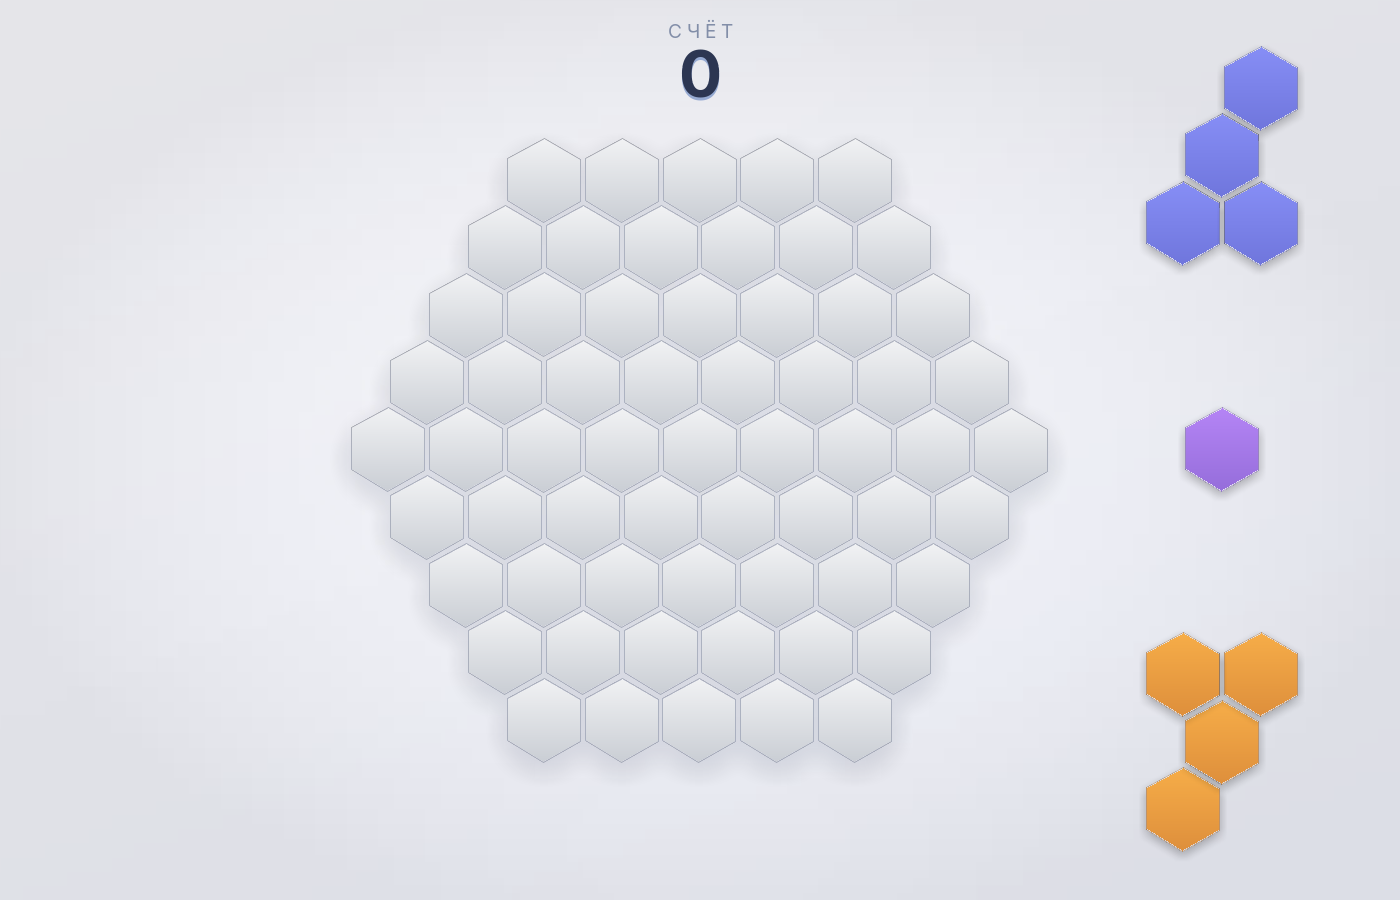
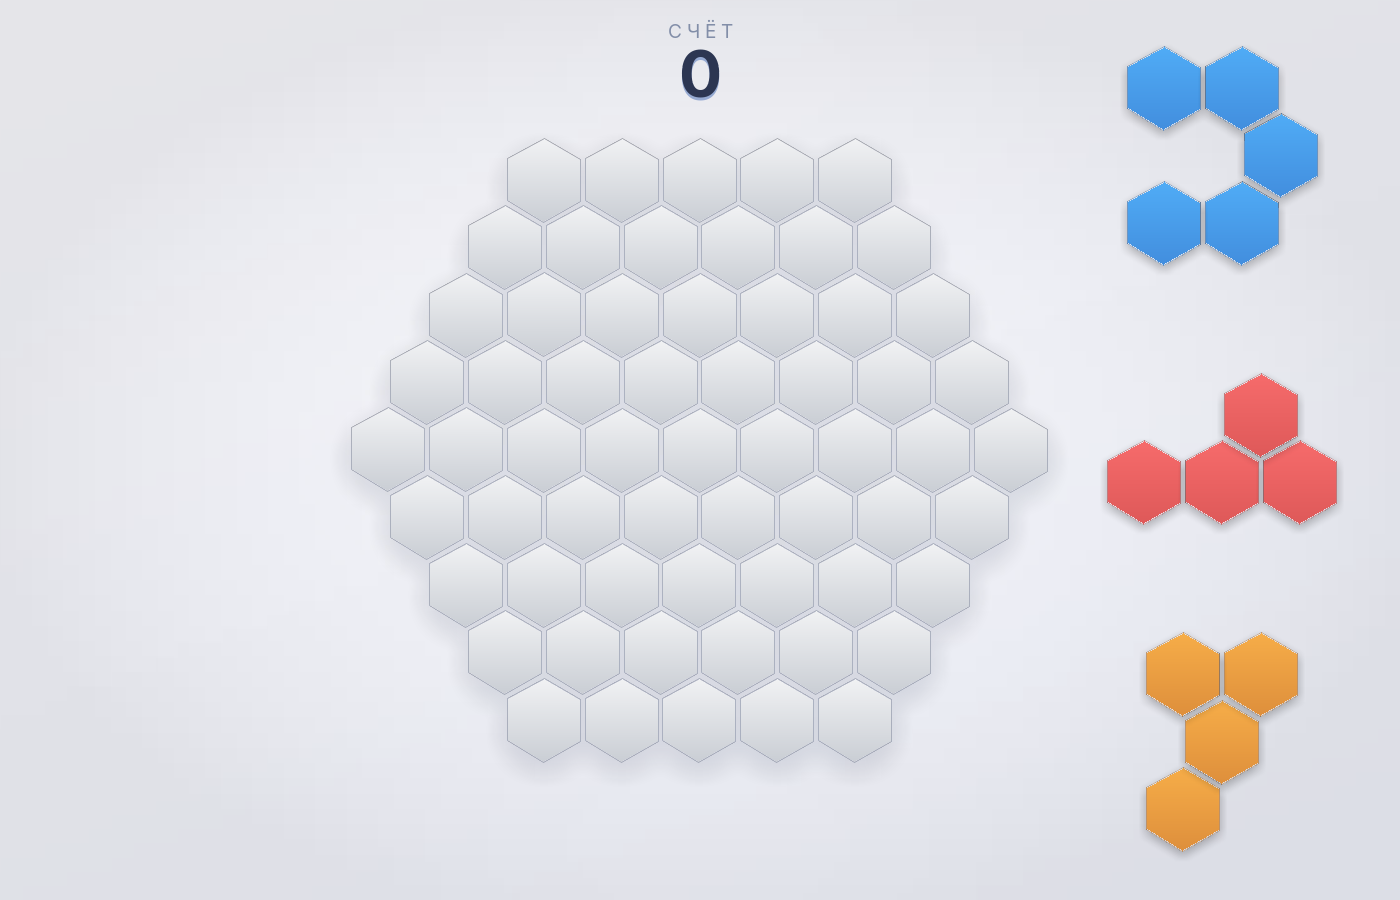
Кнопки «Новая игра» и «Выход» на экране проигрыша
Раньше новую игру можно было начать только любой клавишей клавиатуры, а
выйти — лишь закрыв окно. Теперь на карточке финального экрана две кнопки:

- «Новая игра» — основная, залитая акцентным цветом;
- «Выход» — вторичная, с рамкой.

Кнопки подсвечиваются при наведении и реагируют на левую кнопку мыши.
Клавиатурный вариант убран: клавиши в финальном режиме больше ничего
не делают (кроме T/F1 — переключение темы).

Карточка подросла по высоте (300 -> 380 px), чтобы кнопки и текст не
теснились. Цвета кнопок добавлены в обе темы, поэтому вид сохраняется
при переключении.

Проверки: клики по кнопкам и мимо них обрабатываются правильно, наведение
подсвечивает нужную кнопку; после «Новая игра» счёт обнуляется, финальный
режим снимается; 137 кадров анимаций (включая наведение кнопок) сверены
с полной перерисовкой — следов нет; 146 фигур в 12 партиях с фиксированным
seed. Скриншот финального экрана и раздел «Управление» в README обновлены.

Changed region(s): [[0.7986, 0.0311, 0.9521, 0.3111], [0.7679, 0.4044, 0.9829, 0.5911]]

diff --git a/classes.py b/classes.py
@@ -1050,12 +1050,14 @@ class Tab(Layer):
         self.score = 0
         self.target_score = 0
         self.final = False
+        self.hovered = None
         self._rendered = {}
 
         self.label = fonts.regular(19)
         self.big = fonts.bold(64)
         self.info = fonts.medium(22)
         self.hint = fonts.regular(20)
+        self.button_font = fonts.semibold(21)
 
         self.invalidate(self.bounds)
 
@@ -1075,8 +1077,36 @@ class Tab(Layer):
     def card_rect(self):
         """Карточка финального экрана. Она лежит по центру, поэтому текст
         не может оказаться поверх гексов игрового поля."""
-        width, height = 560, 300
+        width, height = 560, 380
         return pg.Rect((W - width) // 2, (H - height) // 2, width, height)
+
+    @property
+    def button_rects(self):
+        """Кнопки финального экрана: (действие, прямоугольник)."""
+        card = self.card_rect
+        width, height, gap = 200, 52, 24
+        left = card.centerx - width - gap // 2
+        top = card.bottom - height - 58
+        return [
+            ('new_game', pg.Rect(left, top, width, height)),
+            ('quit', pg.Rect(left + width + gap, top, width, height)),
+        ]
+
+    def button_at(self, pos):
+        """Возвращает действие кнопки под курсором или None."""
+        if not self.final:
+            return None
+        for action, rect in self.button_rects:
+            if rect.collidepoint(pos):
+                return action
+        return None
+
+    def set_hover(self, pos):
+        """Подсвечивает кнопку под курсором."""
+        hovered = self.button_at(pos)
+        if hovered != self.hovered:
+            self.hovered = hovered
+            self.invalidate(self.card_rect.inflate(60, 60))
 
     @property
     def bounds(self):
@@ -1151,17 +1181,35 @@ class Tab(Layer):
 
         center_x = card.centerx
         title = self._text('ИГРА ОКОНЧЕНА', self.info, theme['text_final'])
-        self.surface.blit(title, title.get_rect(center=(center_x, card.y + 58)))
+        self.surface.blit(title, title.get_rect(center=(center_x, card.y + 54)))
+
+        label = self._text('С Ч Ё Т', self.label, theme['text_secondary'])
+        self.surface.blit(label, label.get_rect(center=(center_x, card.y + 92)))
 
         text = '{:,}'.format(self.score).replace(',', ' ')
         score = self._text(text, self.big, theme['text_primary'])
         shadow = self._text(text, self.big, theme['text_shadow'])
-        rect_score = score.get_rect(center=(center_x, card.y + 136))
+        rect_score = score.get_rect(center=(center_x, card.y + 152))
         self.surface.blit(shadow, rect_score.move(0, 3))
         self.surface.blit(score, rect_score)
 
-        label = self._text('С Ч Ё Т', self.label, theme['text_secondary'])
-        self.surface.blit(label, label.get_rect(center=(center_x, card.y + 186)))
+        for action, button in self.button_rects:
+            self._draw_button(action, button)
 
-        hint = self._text('нажмите любую клавишу', self.hint, theme['text_secondary'])
-        self.surface.blit(hint, hint.get_rect(center=(center_x, card.bottom - 46)))
+    def _draw_button(self, action, rect):
+        if action == 'new_game':
+            fill = theme['button_primary_hover'] if self.hovered == action else theme['button_primary']
+            text_color = theme['button_primary_text']
+            border = None
+        else:
+            fill = theme['button_secondary_hover'] if self.hovered == action else theme['button_secondary']
+            text_color = theme['button_secondary_text']
+            border = theme['button_border']
+
+        pg.draw.rect(self.surface, fill, rect, border_radius=14)
+        if border:
+            pg.draw.rect(self.surface, border, rect, width=1, border_radius=14)
+
+        caption = 'Новая игра' if action == 'new_game' else 'Выход'
+        text = self._text(caption, self.button_font, text_color)
+        self.surface.blit(text, text.get_rect(center=rect.center))

diff --git a/main.py b/main.py
@@ -88,12 +88,21 @@ def run():
                             mode = FINAL_MODE
 
             elif mode == FINAL_MODE:
-                if event.type == pg.KEYDOWN:
-                    field, pool, drag_and_drop, tab = init_new_game(sc)
-                    renderer.layers = [field, pool, drag_and_drop, fx, tab]
-                    fx.clear()
-                    renderer.invalidate_all()
-                    mode = GAME_MODE
+                # Кнопки: наведение подсвечивает, клик выполняет действие.
+                if event.type == pg.MOUSEMOTION:
+                    tab.set_hover(event.pos)
+
+                if event.type == pg.MOUSEBUTTONDOWN and event.button == pg.BUTTON_LEFT:
+                    action = tab.button_at(event.pos)
+                    if action == 'new_game':
+                        field, pool, drag_and_drop, tab = init_new_game(sc)
+                        renderer.layers = [field, pool, drag_and_drop, fx, tab]
+                        fx.clear()
+                        renderer.invalidate_all()
+                        mode = GAME_MODE
+                    elif action == 'quit':
+                        pg.quit()
+                        return
 
         renderer.draw()
         clock.tick(FPS)

diff --git a/theme.py b/theme.py
@@ -50,6 +50,15 @@ LIGHT = {
     'card_fill': (252, 253, 255, 252),
     'card_border': (214, 220, 234, 255),
     'card_shadow': (24, 32, 56, 80),
+
+    # Кнопки
+    'button_primary': (74, 158, 255),
+    'button_primary_hover': (52, 138, 240),
+    'button_primary_text': (255, 255, 255),
+    'button_secondary': (236, 239, 247),
+    'button_secondary_hover': (224, 229, 240),
+    'button_secondary_text': (74, 86, 116),
+    'button_border': (205, 212, 228),
 }
 
 DARK = {
@@ -92,6 +101,15 @@ DARK = {
     'card_fill': (44, 50, 68, 252),
     'card_border': (78, 88, 112, 255),
     'card_shadow': (0, 0, 0, 130),
+
+    # Кнопки
+    'button_primary': (96, 174, 255),
+    'button_primary_hover': (122, 190, 255),
+    'button_primary_text': (18, 24, 38),
+    'button_secondary': (62, 70, 92),
+    'button_secondary_hover': (78, 88, 114),
+    'button_secondary_text': (226, 233, 246),
+    'button_border': (88, 98, 124),
 }
 
 THEMES = {'light': LIGHT, 'dark': DARK}
